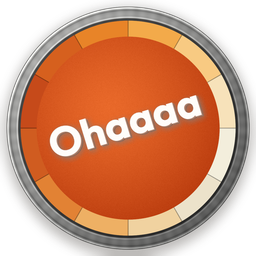
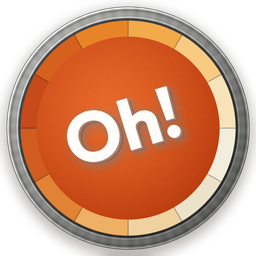
marka: küçük boyut için ayrı işaret — "Oh!" armada, tam ad levhada
SORUN
Tam arma 1024 piksellik bir çizim. Başlıktaki gerçek boyutunda (36 px)
içindeki "Ohaaaa" harfleri birkaç piksele düşüyor ve bulanık bir lekeye
dönüşüyor. Ölçtüm: 64 pikselden önce okunmuyor. Başlığa 64 piksellik arma
koymak ise başlığı ~85 piksele çıkarır; mobilde dikey alan pahalı.

ÇÖZÜM
Büyütmek yerine küçük boyut için ayrı bir işaret üretildi. Aynı disk, aynı
fırça izli çember, aynı segment halkası — ama "Oh!" yazıyor ve 32 pikselde
bile okunuyor. "Oh!" markanın kökü; ünlem, adın kendisindeki vurguyu
taşıyor.

Böylece iki metin birbirini tekrar etmiyor, tamamlıyor: arma "Oh!" der,
levha tam adı ve vaadi taşır.

scripts/make-badge.py --compact
  Kelime ve dolgu oranı parametre oldu. Çıktı doğrulaması kelimeye göre
  çalışıyor; dört 'a' kontrolü yalnızca tam ada uygulanıyor.

scripts/make-icons.py <arma> [kompakt]
  Kompakt işaret verilirse favicon ve başlık logosu ondan, iOS ana ekran
  ikonu ve link önizlemesi tam armadan üretiliyor. Her boyut kendi işini
  yapan varlığı alıyor.

Doğrulama: kompakt işaret 32/36/44 pikselde okunuyor, tam arma aynı
boyutlarda okunmuyor — ekran görüntüsüyle karşılaştırıldı. Siluet en/boy
her iki varlıkta 1.000. Dokunma alanı 154x56, logo tıklaması ana sayfaya
gidiyor. 116 birim testi geçiyor.

Claude-Session: https://claude.ai/code/session_01UX7fCom5DN1Jyb9VvyAeSS

Changed region(s): [[0.1875, 0.3125, 0.8125, 0.6562]]

diff --git a/scripts/make-badge.py b/scripts/make-badge.py
@@ -29,7 +29,13 @@ FONT = Path('/mnt/skills/examples/canvas-design/canvas-fonts/Outfit-Bold.ttf')
 # Marka adinin TEK dogruluk kaynagi. Elle 'Ohaaa' ya da 'Ohaaaaa' yazilamaz;
 # harf sayisi burada uretilir. Elle duzenlemede bu hata iki kez yapildi.
 BRAND = 'O' + 'h' + 'a' * 4        # Ohaaaa
-WORD = BRAND
+
+# Kompakt işaret: 36-52 pikselde tam ad okunmuyor (ölçüldü; 64 pikselden
+# önce harfler birkaç piksele düşüyor). Başlığa ve favicon'a 64 piksellik
+# arma koymak başlığı gereksiz yükseltir. Bu yüzden küçük boyut için ayrı
+# bir işaret üretilir: aynı disk, aynı çember, aynı segment halkası - ama
+# kısa ve o boyutta okunan bir kelime.
+COMPACT = 'Oh!'
 
 # --- yaricaplar (S=1024 icin) ---
 R_SHADOW = 496
@@ -141,14 +147,14 @@ def build_disc(rad):
     return disc + grain
 
 
-def render_word(size_px, angle_deg):
+def render_word(word, size_px, angle_deg):
     """Kelimeyi 3B kabartma hissiyle ciz; (RGBA gorsel) dondurur."""
     font = ImageFont.truetype(str(FONT), size_px)
 
     pad = size_px
-    tmp = Image.new('L', (int(size_px * len(WORD) * 1.1) + pad * 2, size_px * 3), 0)
+    tmp = Image.new('L', (int(size_px * len(word) * 1.2) + pad * 2, size_px * 3), 0)
     d = ImageDraw.Draw(tmp)
-    d.text((pad, pad), WORD, font=font, fill=255)
+    d.text((pad, pad), word, font=font, fill=255)
     bbox = tmp.getbbox()
     glyphs = tmp.crop(bbox)
 
@@ -192,7 +198,7 @@ def render_word(size_px, angle_deg):
     return rotated.crop(box) if box else rotated
 
 
-def verify_letters(badge, angle_deg=17):
+def verify_letters(badge, word, angle_deg=17):
     """Cizilen goruntuyu OKUYARAK harfleri sayar.
 
     Dosyanin basindaki assert kaynak dizgeyi dogrular; bu ise CIKTIYI
@@ -223,24 +229,32 @@ def verify_letters(badge, angle_deg=17):
     if start is not None and len(col) - start > 8:
         runs.append(len(col) - start)
 
-    if len(runs) != len(BRAND):
+    if len(runs) != len(word):
         raise SystemExit(
-            f'  DUR: goruntude {len(runs)} harf blogu var, {len(BRAND)} olmali.\n'
+            f'  DUR: goruntude {len(runs)} harf blogu var, {len(word)} olmali.\n'
             f'       Blok genislikleri: {runs}\n'
             '       Harfler birlesmis ya da bir harf eksik cizilmis olabilir.')
 
     # Son dort blok 'a' - genislikleri birbirine yakin olmali
     widths = runs[2:]
-    if len(widths) != BRAND.count('a'):
-        raise SystemExit(f'  DUR: {len(widths)} adet a blogu, {BRAND.count("a")} olmali.')
-    if max(widths) - min(widths) > max(widths) * 0.12:
-        raise SystemExit(f'  DUR: a harfleri esit genislikte degil: {widths}')
+    # Tam ad icin ek kontrol: dort 'a' esit genislikte olmali.
+    if word == BRAND:
+        if len(widths) != BRAND.count('a'):
+            raise SystemExit(f'  DUR: {len(widths)} adet a blogu, {BRAND.count("a")} olmali.')
+        if max(widths) - min(widths) > max(widths) * 0.12:
+            raise SystemExit(f'  DUR: a harfleri esit genislikte degil: {widths}')
 
-    print(f'  harf blogu: {len(runs)} = {", ".join(BRAND)}  |  a genislikleri {widths}')
+    print(f'  harf blogu: {len(runs)} = {", ".join(word)}')
 
 
 def main() -> None:
-    out = Path(sys.argv[1]) if len(sys.argv) > 1 else Path('ohaaaa-master.png')
+    args = [a for a in sys.argv[1:] if a != '--compact']
+    compact = '--compact' in sys.argv
+    word = COMPACT if compact else BRAND
+    # Kompakt isarette kelime kisa oldugu icin diski daha cok doldurabilir.
+    fill = 0.74 if compact else 0.90
+
+    out = Path(args[0]) if args else Path('ohaaaa-master.png')
     if not FONT.exists():
         sys.exit(f'Yazi tipi yok: {FONT}')
 
@@ -264,17 +278,18 @@ def main() -> None:
     # --- Yazi: ic diske SIGACAK sekilde olceklenir -------------------------
     # Referansta kelime diski %97 doldurup dorduncu harfe yer birakmamisti.
     # Burada hedef genislik acikca sinirlanir.
-    target_w = 2 * R_DISC * 0.90
+    target_w = 2 * R_DISC * fill
     size_px = 300
-    word = render_word(size_px, 17)
-    scale = target_w / word.width
-    word = word.resize((max(1, int(word.width * scale)), max(1, int(word.height * scale))),
-                       Image.LANCZOS)
+    word_img = render_word(word, size_px, 17)
+    scale = target_w / word_img.width
+    word_img = word_img.resize(
+        (max(1, int(word_img.width * scale)), max(1, int(word_img.height * scale))),
+        Image.LANCZOS)
 
-    badge.paste(word, (int(CX - word.width / 2), int(CY - word.height / 2)), word)
+    badge.paste(word_img, (int(CX - word_img.width / 2), int(CY - word_img.height / 2)), word_img)
     badge.save(out, 'PNG')
 
-    verify_letters(badge)
+    verify_letters(badge, word)
 
     # Kontrol: yazi ic diskin icinde mi?
     a = np.asarray(badge.convert('RGB')).astype(int)

diff --git a/scripts/make-icons.py b/scripts/make-icons.py
@@ -2,7 +2,7 @@
 """
 OHAAAA - tek master gorselden tum ikon setini uretir.
 
-    python3 scripts/make-icons.py <master.png>
+    python3 scripts/make-icons.py <master.png> [kompakt-isaret.png]
 
 NEDEN BU BETIK VAR
 Rozet daha once elle olceklenirken 139x208'e ezilmisti: daire oval olmustu ve
@@ -10,11 +10,22 @@ bu, sitenin her sayfasindaki logoda goruluyordu. Elle yeniden boyutlandirmada
 bu hata sessizdir - kimse 40x40 bir gorseli olcmez. Betik once en/boy oranini
 OLCER ve bozuksa durur, sonra her cikti icin kareligi korur.
 
+IKI VARLIK, IKI ISI
+Tam arma 1024 piksellik bir cizimdir; 36-52 piksele indiginde icindeki
+"Ohaaaa" harfleri birkac piksele duser ve okunmaz olur (olculdu: 64 pikselden
+once okunmuyor). Baslikta ya da favicon'da 64 piksellik arma kullanmak ise
+basligi gereksiz yukseltir.
+
+Bu yuzden kucuk boyutlar icin ayri bir isaret uretilir: ayni disk, ayni
+cember, ayni segment halkasi - ama "Oh!" yazar ve 32 pikselde bile okunur.
+Kompakt isaret verilirse favicon ve baslik logosu ondan, buyuk boyutlu
+ciktilar tam armadan uretilir.
+
 URETILENLER
-    apps/web/src/app/icon.png            256x256   tarayici sekmesi (Next otomatik bulur)
-    apps/web/src/app/apple-icon.png      180x180   iOS ana ekran
-    apps/web/public/ohaaaa-badge.png     256x256   basliktaki logo
-    apps/web/src/app/opengraph-image.png 1200x630  WhatsApp/X/Facebook onizlemesi
+    apps/web/src/app/icon.png            256x256   tarayici sekmesi  ← kompakt
+    apps/web/public/ohaaaa-badge.png     256x256   basliktaki logo   ← kompakt
+    apps/web/src/app/apple-icon.png      180x180   iOS ana ekran     ← tam arma
+    apps/web/src/app/opengraph-image.png 1200x630  link onizlemesi   ← tam arma
 
 GEREKSINIM
     pip install Pillow
@@ -77,12 +88,16 @@ def square(im: Image.Image) -> Image.Image:
 
 
 def main() -> None:
-    if len(sys.argv) != 2:
+    if len(sys.argv) not in (2, 3):
         sys.exit(__doc__)
 
     src = Path(sys.argv[1])
     if not src.exists():
         sys.exit(f"Bulunamadi: {src}")
+
+    mark_src = Path(sys.argv[2]) if len(sys.argv) == 3 else None
+    if mark_src and not mark_src.exists():
+        sys.exit(f"Bulunamadi: {mark_src}")
 
     master = Image.open(src).convert("RGBA")
     print(f"master: {src.name}  {master.width}x{master.height}")
@@ -106,14 +121,22 @@ def main() -> None:
 
     master = square(master)
 
+    small = master
+    if mark_src:
+        small = square(Image.open(mark_src).convert("RGBA"))
+        aspect_mark = badge_aspect(small)
+        if abs(aspect_mark - 1.0) > 0.15:
+            sys.exit(f"  DUR: kompakt isaret en/boy {aspect_mark:.3f} - oval.")
+        print(f"  kompakt isaret: {mark_src.name}  siluet {aspect_mark:.3f}")
+
     outputs = [
-        (WEB / "src/app/icon.png", 256),
-        (WEB / "src/app/apple-icon.png", 180),
-        (WEB / "public/ohaaaa-badge.png", 256),
+        (WEB / "src/app/icon.png", 256, small),          # tarayici sekmesi: 16-32 px'e iner
+        (WEB / "public/ohaaaa-badge.png", 256, small),   # baslik: 36 px
+        (WEB / "src/app/apple-icon.png", 180, master),   # iOS ana ekran: buyuk gorunur
     ]
-    for path, size in outputs:
+    for path, size, source in outputs:
         path.parent.mkdir(parents=True, exist_ok=True)
-        master.resize((size, size), Image.LANCZOS).save(path, "PNG", optimize=True)
+        source.resize((size, size), Image.LANCZOS).save(path, "PNG", optimize=True)
         print(f"  {path.relative_to(ROOT)}  {size}x{size}")
 
     # --- Onizleme gorseli ---------------------------------------------------
